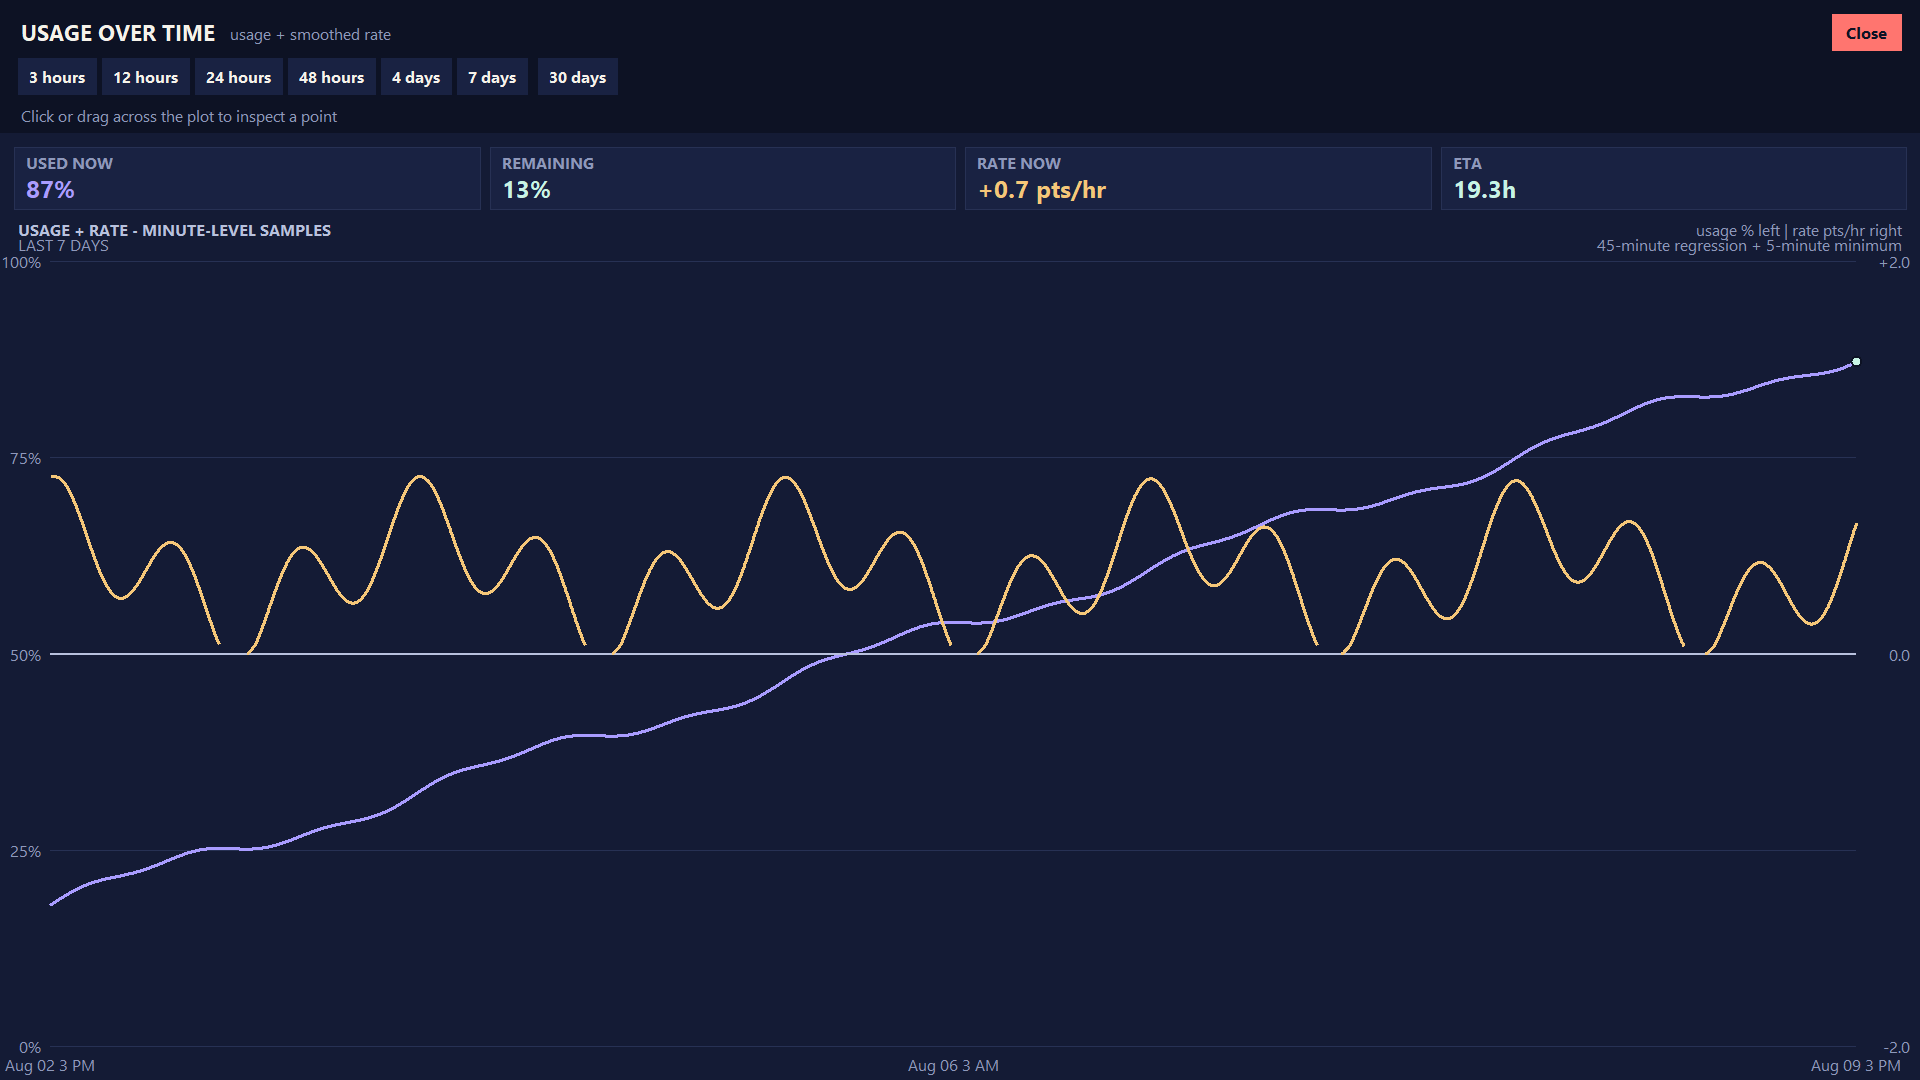
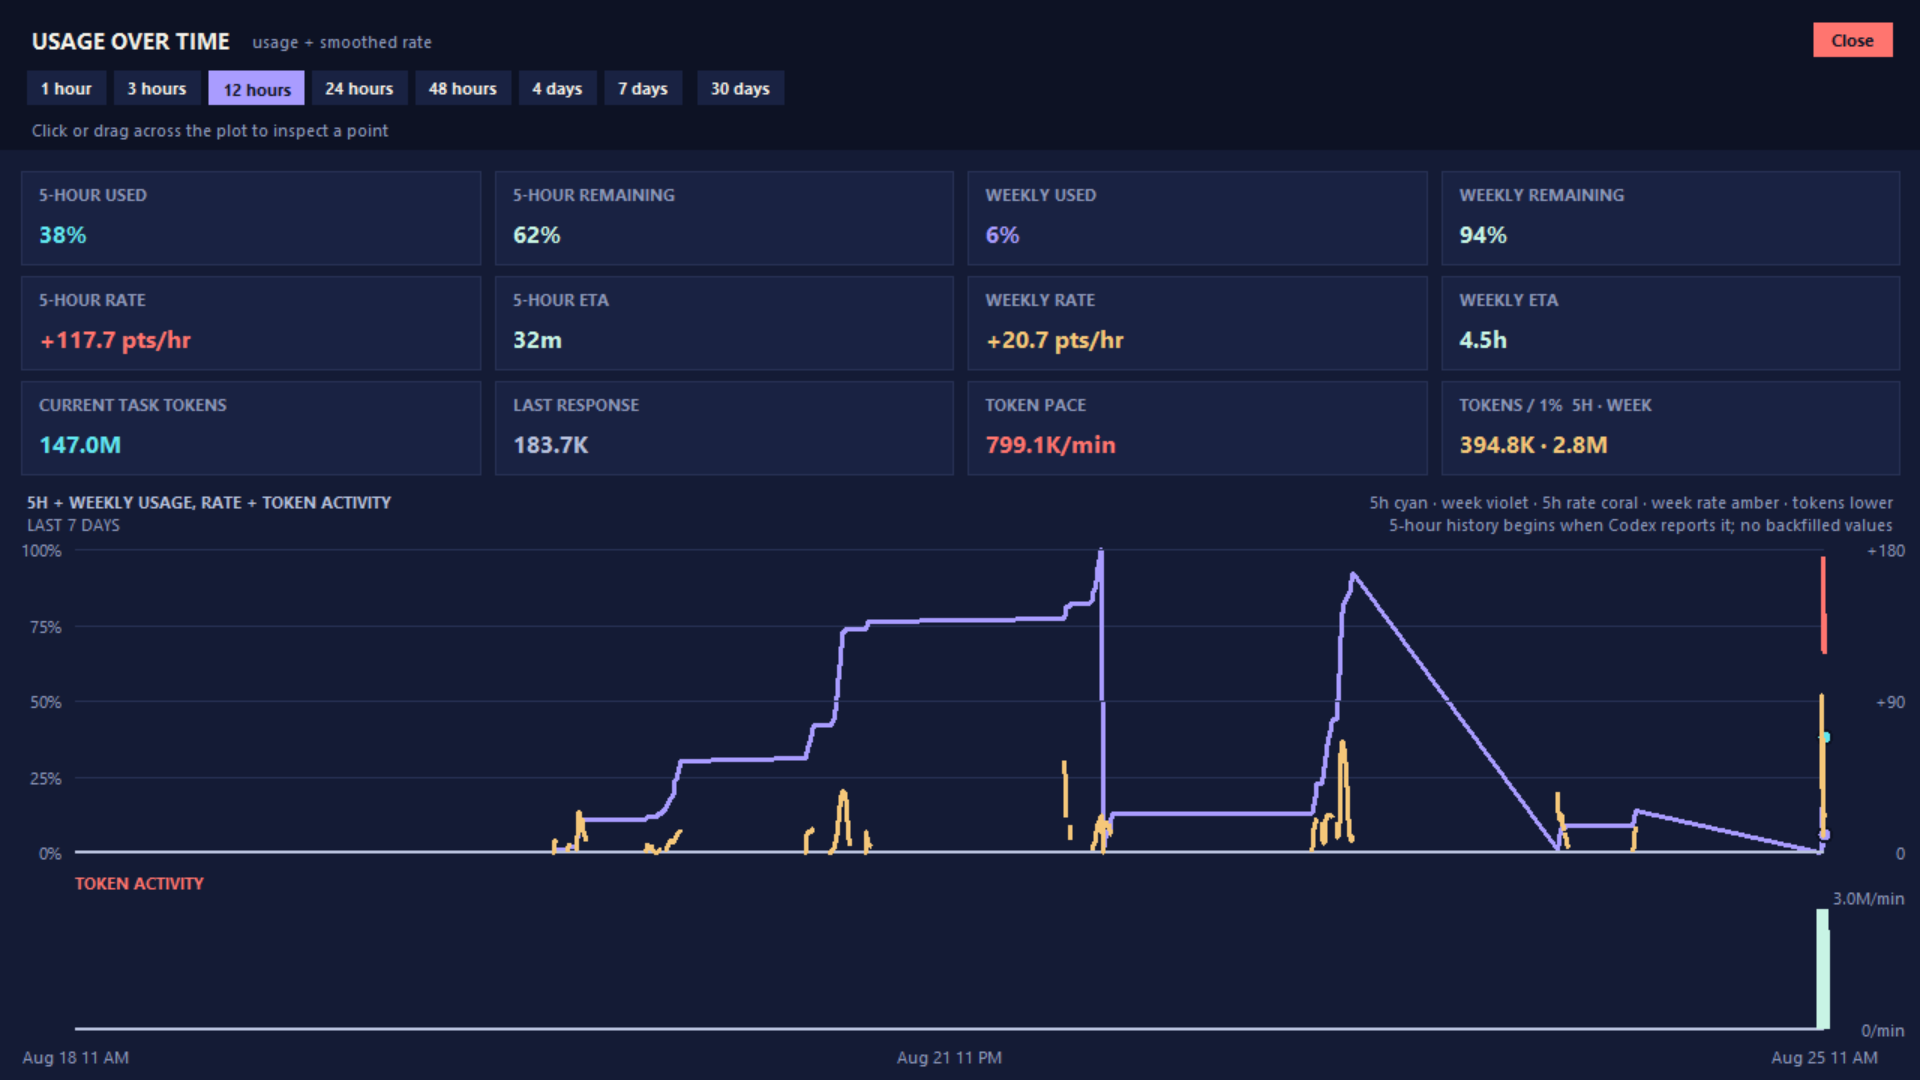
Update dual-limit release screenshots

diff --git a/docs/CURRENT_TASK.md b/docs/CURRENT_TASK.md
@@ -11,6 +11,7 @@ Track the restored 5-hour Codex allowance alongside the weekly allowance, packag
 - Local telemetry now reports a 300-minute primary window and a 10,080-minute secondary window.
 - The old v1.1.15 executable selects `primary` blindly, causing it to show 5-hour usage as if it were weekly.
 - Dual-window reading, history, main UI, tray behavior, milestones, rates, ETA, and Statistics are implemented, packaged, installed, and running.
+- Fresh README screenshots were captured from the current dual-window UI and Statistics view.
 - The current install is the unversioned `outputs\CodexUsageCounter\CodexUsageCounter.exe`; Start with Windows targets it.
 - The prior v1.1.15 executable/archive and four stale versioned README files were removed. Settings and history were preserved.
 
@@ -52,4 +53,4 @@ Track the restored 5-hour Codex allowance alongside the weekly allowance, packag
 
 ## Next steps
 
-1. Commit and push GitHub.
+1. Commit README/screenshot updates, publish the current executable release, and update the GitHub repository description.

diff --git a/README.md b/README.md
@@ -1,6 +1,6 @@
 # Codex Usage Counter
 
-A small Windows desktop counter that keeps your current Codex usage visible without opening a dashboard.
+A live Windows tray counter for Codex 5-hour and weekly usage, rates, ETAs, reset countdowns, and token activity.
 
 [Download the latest Windows release](../../releases/latest)
 
@@ -30,11 +30,11 @@ The executable is self-contained and does not require Python to be installed.
 
 ### Counter window
 
-![Codex Usage Counter window with live rate and ETA](screenshots/counter.png)
+![Codex Usage Counter showing separate 5-hour and weekly allowance cards, rates, ETAs, and token activity](screenshots/counter.png)
 
 ### Statistics view
 
-![Codex Usage Counter seven-day usage and rate statistics](screenshots/statistics.png)
+![Codex Usage Counter Statistics showing 5-hour and weekly usage/rate lines with token activity](screenshots/statistics.png)
 
 ## How the data is read
 
